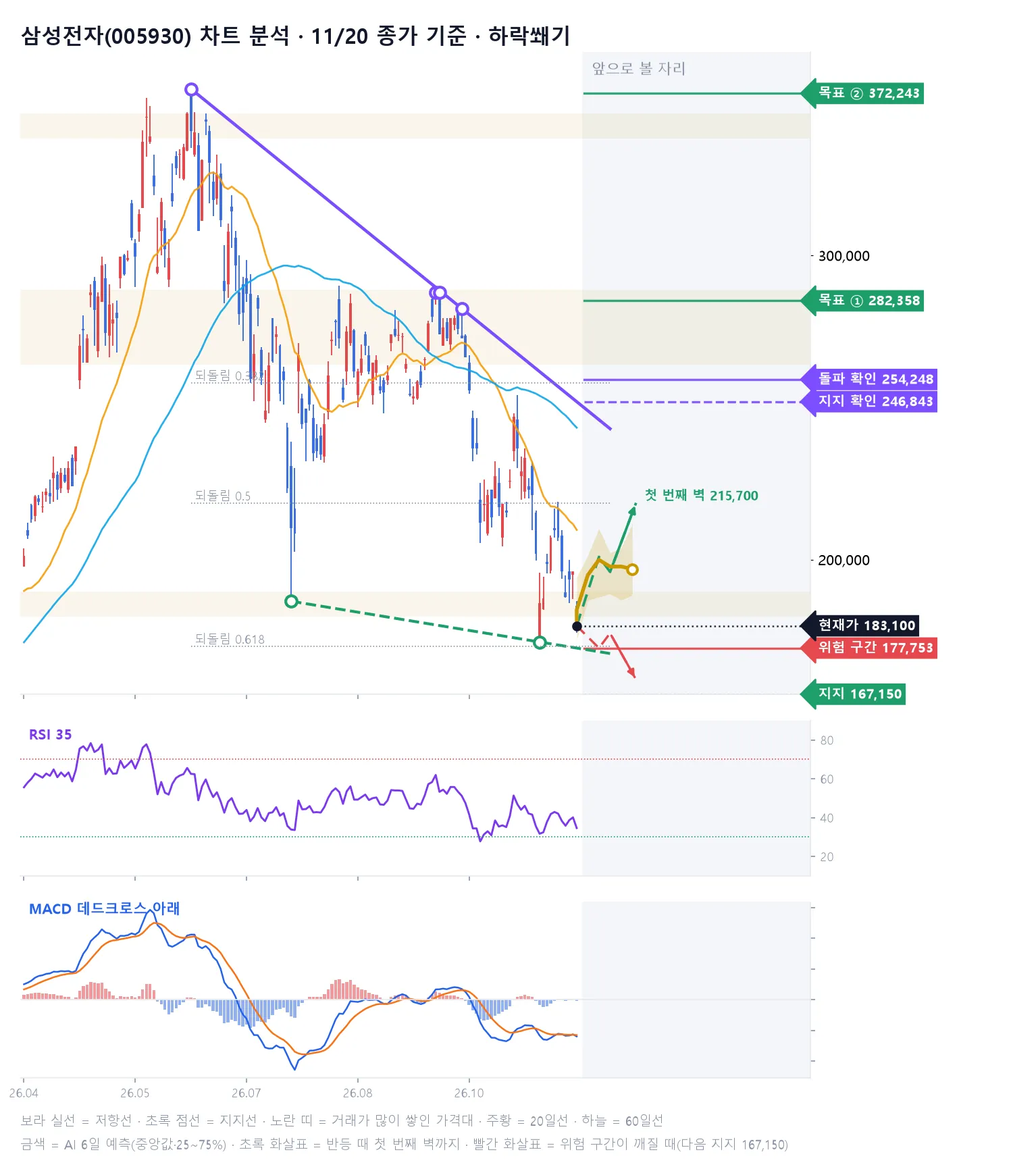
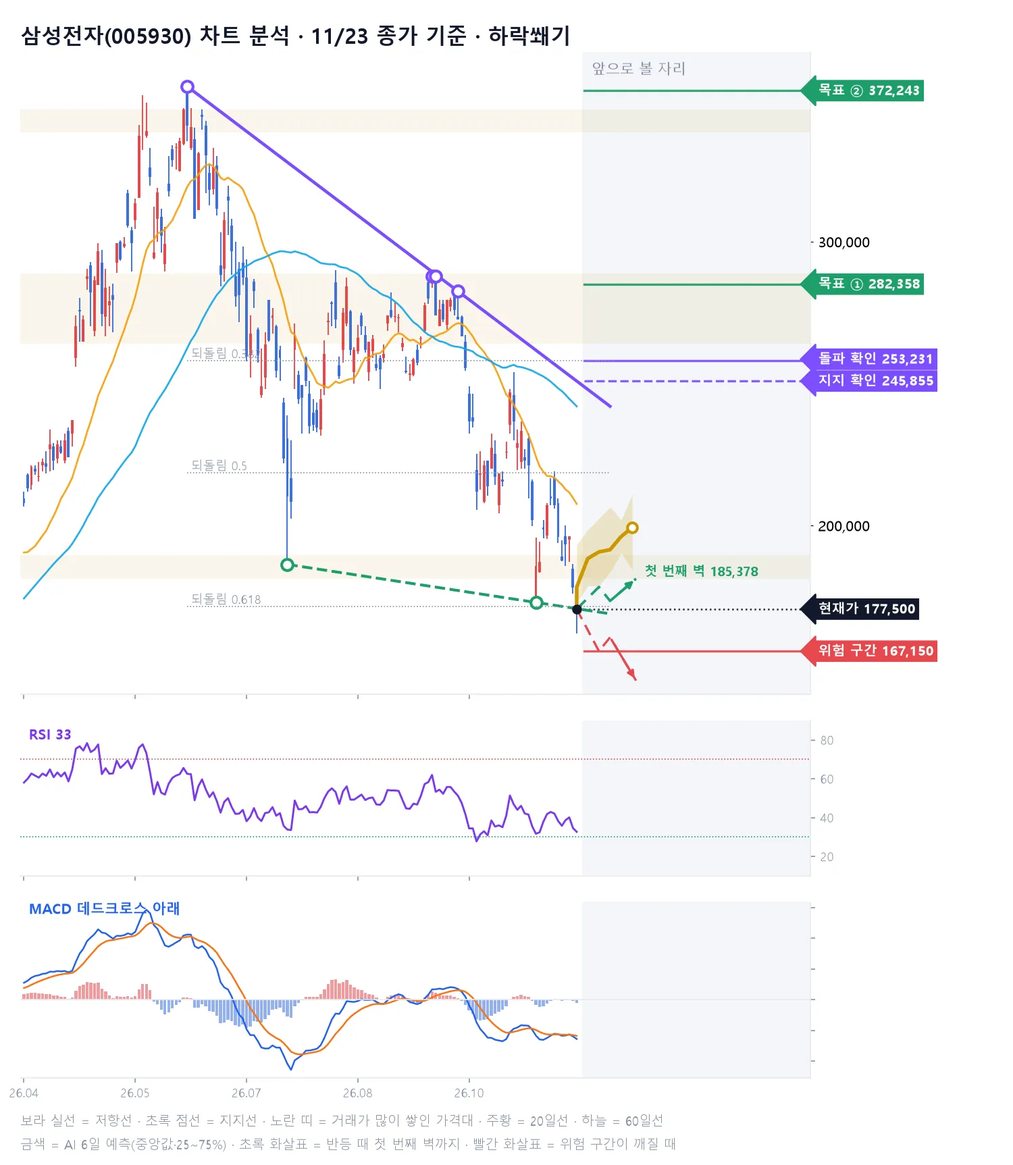
무료 공개 종목 페이지 자동 갱신

diff --git a/s/index.html b/s/index.html
@@ -93,8 +93,8 @@
     <h1>오늘의 무료 공개 종목</h1>
     <p style="margin:0;color:#B7BFD0">유튜브 쇼츠에 나온 종목의 AI 판정과 6일 예측 흐름을 누구나 볼 수 있어요</p>
   </section>
-  <div class="pk-list"><a class="card pk-item" href="BTC/"><span><b>비트코인(BTC)</b><small>코인 · 업비트 · 11/23 예측</small></span><b class="v-up">상승</b></a><a class="card pk-item" href="1INCH/"><span><b>1인치네트워크(1INCH)</b><small>코인 · 업비트 · 11/23 예측</small></span><b class="v-up">상승</b></a><a class="card pk-item" href="SAND/"><span><b>샌드박스(SAND)</b><small>코인 · 업비트 · 11/23 예측</small></span><b class="v-up">상승</b></a><a class="card pk-item" href="XLM/"><span><b>스텔라루멘(XLM)</b><small>코인 · 업비트 · 11/23 예측</small></span><b class="v-up">상승</b></a><a class="card pk-item" href="ARK/"><span><b>아크(ARK)</b><small>코인 · 업비트 · 11/23 예측</small></span><b class="v-up">상승</b></a><a class="card pk-item" href="SUI/"><span><b>수이(SUI)</b><small>코인 · 업비트 · 11/23 예측</small></span><b class="v-up">상승</b></a><a class="card pk-item" href="PALANTIR/"><span><b>팔란티어(PALANTIR)</b><small>미국 주식 · 11/21 예측</small></span><b class="v-up">상승</b></a><a class="card pk-item" href="NVIDIA/"><span><b>엔비디아(NVIDIA)</b><small>미국 주식 · 11/21 예측</small></span><b class="v-up">상승</b></a><a class="card pk-item" href="DOW/"><span><b>다우존스(DOW)</b><small>미국 주식 · 11/21 예측</small></span><b class="v-up">상승</b></a><a class="card pk-item" href="RUSSELL2000/"><span><b>러셀2000(RUSSELL2000)</b><small>미국 주식 · 11/21 예측</small></span><b class="v-up">상승</b></a><a class="card pk-item" href="MERCADOLIBRE/"><span><b>메르카도리브레(MERCADOLIBRE)</b><small>미국 주식 · 11/21 예측</small></span><b class="v-up">상승</b></a><a class="card pk-item" href="KODEX2%EC%B0%A8%EC%A0%84%EC%A7%80%EC%82%B0%EC%97%85/"><span><b>KODEX2차전지산업</b><small>코스피200 · 11/24 예측</small></span><b class="v-up">상승</b></a><a class="card pk-item" href="TIGER2%EC%B0%A8%EC%A0%84%EC%A7%80%ED%85%8C%EB%A7%88/"><span><b>TIGER2차전지테마</b><small>코스피200 · 11/24 예측</small></span><b class="v-up">상승</b></a><a class="card pk-item" href="KODEX%EC%9E%90%EB%8F%99%EC%B0%A8/"><span><b>KODEX자동차</b><small>코스피200 · 11/24 예측</small></span><b class="v-up">상승</b></a><a class="card pk-item" href="%EA%B3%A0%EB%A0%A4%EC%95%84%EC%97%B0/"><span><b>고려아연</b><small>코스피200 · 11/24 예측</small></span><b class="v-up">상승</b></a><a class="card pk-item" href="%ED%95%9C%ED%99%94/"><span><b>한화</b><small>코스피200 · 11/24 예측</small></span><b class="v-up">상승</b></a><a class="card pk-item" href="KOSDAQ/"><span><b>코스닥(KOSDAQ)</b><small>코스피 지수 · 11/24 예측</small></span><b class="v-up">상승</b></a><a class="card pk-item" href="KOSPI/"><span><b>코스피(KOSPI)</b><small>코스피 지수 · 11/24 예측</small></span><b class="v-up">상승</b></a></div>
-  <h2 style="font-size:17px;margin:12px 0 0">지난 공개 종목</h2><div class="pk-list"><a class="card pk-item" href="AAVE/"><span><b>에이브(AAVE)</b><small>코인 · 업비트 · 11/22 예측</small></span><b class="v-up">상승</b></a><a class="card pk-item" href="MTL/"><span><b>메탈(MTL)</b><small>코인 · 업비트 · 11/22 예측</small></span><b class="v-up">상승</b></a><a class="card pk-item" href="%EC%82%BC%EC%84%B1%EC%A0%84%EC%9E%90/"><span><b>삼성전자(005930)</b><small>코스피200 · 11/21 예측</small></span><b class="v-mx">혼돈</b></a><a class="card pk-item" href="ETH/"><span><b>이더리움(ETH)</b><small>코인 · 업비트 · 11/21 예측</small></span><b class="v-mx">혼돈</b></a><a class="card pk-item" href="TESLA/"><span><b>테슬라(TSLA)</b><small>미국 주식 · 11/21 예측</small></span><b class="v-up">상승</b></a><a class="card pk-item" href="%ED%95%9C%ED%99%94%EC%86%94%EB%A3%A8%EC%85%98/"><span><b>한화솔루션</b><small>코스피200 · 11/21 예측</small></span><b class="v-mx">혼돈</b></a><a class="card pk-item" href="KODEX%EB%AF%B8%EA%B5%AD%EB%82%98%EC%8A%A4%EB%8B%A5100TR/"><span><b>KODEX미국나스닥100TR</b><small>코스피200 · 11/21 예측</small></span><b class="v-up">상승</b></a><a class="card pk-item" href="TIGER%EB%AF%B8%EA%B5%AD%ED%85%8C%ED%81%ACTOP10/"><span><b>TIGER미국테크TOP10</b><small>코스피200 · 11/21 예측</small></span><b class="v-up">상승</b></a><a class="card pk-item" href="ZRO/"><span><b>레이어제로(ZRO)</b><small>코인 · 업비트 · 11/21 예측</small></span><b class="v-mx">혼돈</b></a><a class="card pk-item" href="ETC/"><span><b>이더리움클래식(ETC)</b><small>코인 · 업비트 · 11/21 예측</small></span><b class="v-up">상승</b></a><a class="card pk-item" href="MANA/"><span><b>디센트럴랜드(MANA)</b><small>코인 · 업비트 · 11/21 예측</small></span><b class="v-up">상승</b></a><a class="card pk-item" href="SK%ED%95%98%EC%9D%B4%EB%8B%89%EC%8A%A4/"><span><b>SK하이닉스(000660)</b><small>코스피200 · 11/20 예측</small></span><b class="v-mx">혼돈</b></a><a class="card pk-item" href="APT/"><span><b>앱토스(APT)</b><small>코인 · 업비트 · 11/20 예측</small></span><b class="v-up">상승</b></a><a class="card pk-item" href="STRAX/"><span><b>저트라(STRAX)</b><small>코인 · 업비트 · 11/20 예측</small></span><b class="v-up">상승</b></a><a class="card pk-item" href="ENS/"><span><b>이더리움네임서비스(ENS)</b><small>코인 · 업비트 · 11/20 예측</small></span><b class="v-up">상승</b></a><a class="card pk-item" href="KODEXWTI%EC%9B%90%EC%9C%A0%EC%84%A0%EB%AC%BCH/"><span><b>KODEXWTI원유선물H</b><small>코스피200 · 11/20 예측</small></span><b class="v-up">상승</b></a><a class="card pk-item" href="%ED%95%9C%EC%A0%84%EA%B8%B0%EC%88%A0/"><span><b>한전기술</b><small>코스피200 · 11/20 예측</small></span><b class="v-up">상승</b></a><a class="card pk-item" href="KODEX%EA%B3%A8%EB%93%9C%EC%84%A0%EB%AC%BCH/"><span><b>KODEX골드선물H</b><small>코스피200 · 11/20 예측</small></span><b class="v-mx">혼돈</b></a><a class="card pk-item" href="STRATEGY/"><span><b>스트래티지(STRATEGY)</b><small>미국 주식 · 11/19 예측</small></span><b class="v-up">상승</b></a><a class="card pk-item" href="NETFLIX/"><span><b>넷플릭스(NETFLIX)</b><small>미국 주식 · 11/19 예측</small></span><b class="v-up">상승</b></a><a class="card pk-item" href="SHIB/"><span><b>시바이누(SHIB)</b><small>코인 · 업비트 · 11/19 예측</small></span><b class="v-up">상승</b></a><a class="card pk-item" href="TOKAMAK/"><span><b>토카막네트워크(TOKAMAK)</b><small>코인 · 업비트 · 11/19 예측</small></span><b class="v-up">상승</b></a><a class="card pk-item" href="TIGER%EB%AF%B8%EA%B5%ADSP500/"><span><b>TIGER미국SP500</b><small>코스피200 · 11/19 예측</small></span><b class="v-mx">혼돈</b></a><a class="card pk-item" href="%EA%B8%B0%EC%95%84/"><span><b>기아</b><small>코스피200 · 11/19 예측</small></span><b class="v-mx">혼돈</b></a><a class="card pk-item" href="%ED%98%84%EB%8C%80%EB%A1%9C%ED%85%9C/"><span><b>현대로템</b><small>코스피200 · 11/19 예측</small></span><b class="v-up">상승</b></a><a class="card pk-item" href="TIGER%EB%B0%98%EB%8F%84%EC%B2%B4TOP10/"><span><b>TIGER반도체TOP10</b><small>코스피200 · 11/19 예측</small></span><b class="v-up">상승</b></a><a class="card pk-item" href="MBL/"><span><b>무비블록(MBL)</b><small>코인 · 업비트 · 11/18 예측</small></span><b class="v-up">상승</b></a><a class="card pk-item" href="SC/"><span><b>시아코인(SC)</b><small>코인 · 업비트 · 11/18 예측</small></span><b class="v-up">상승</b></a><a class="card pk-item" href="ELF/"><span><b>엘프(ELF)</b><small>코인 · 업비트 · 11/18 예측</small></span><b class="v-up">상승</b></a><a class="card pk-item" href="BITMINE/"><span><b>비트마인(BITMINE)</b><small>미국 주식 · 11/18 예측</small></span><b class="v-up">상승</b></a><a class="card pk-item" href="NASDAQ100/"><span><b>나스닥100(NASDAQ100)</b><small>미국 주식 · 11/18 예측</small></span><b class="v-up">상승</b></a><a class="card pk-item" href="NASDAQ/"><span><b>나스닥(NASDAQ)</b><small>미국 주식 · 11/18 예측</small></span><b class="v-up">상승</b></a><a class="card pk-item" href="DB%ED%95%98%EC%9D%B4%ED%85%8D/"><span><b>DB하이텍</b><small>코스피200 · 11/18 예측</small></span><b class="v-up">상승</b></a><a class="card pk-item" href="%ED%95%9C%ED%99%94%EC%83%9D%EB%AA%85/"><span><b>한화생명</b><small>코스피200 · 11/18 예측</small></span><b class="v-mx">혼돈</b></a><a class="card pk-item" href="SOL/"><span><b>솔라나(SOL)</b><small>코인 · 업비트 · 11/17 예측</small></span><b class="v-up">상승</b></a><a class="card pk-item" href="HBAR/"><span><b>헤데라(HBAR)</b><small>코인 · 업비트 · 11/17 예측</small></span><b class="v-up">상승</b></a><a class="card pk-item" href="NEAR/"><span><b>니어프로토콜(NEAR)</b><small>코인 · 업비트 · 11/17 예측</small></span><b class="v-up">상승</b></a><a class="card pk-item" href="CISCO/"><span><b>시스코(CISCO)</b><small>미국 주식 · 11/17 예측</small></span><b class="v-up">상승</b></a><a class="card pk-item" href="DB%EC%86%90%ED%95%B4%EB%B3%B4%ED%97%98/"><span><b>DB손해보험</b><small>코스피200 · 11/17 예측</small></span><b class="v-up">상승</b></a><a class="card pk-item" href="NIKKEI225/"><span><b>NIKKEI225</b><small>코스피200 · 11/17 예측</small></span><b class="v-up">상승</b></a><a class="card pk-item" href="LG/"><span><b>LG</b><small>코스피200 · 11/17 예측</small></span><b class="v-up">상승</b></a><a class="card pk-item" href="NEO/"><span><b>네오(NEO)</b><small>코인 · 업비트 · 11/16 예측</small></span><b class="v-up">상승</b></a><a class="card pk-item" href="MED/"><span><b>메디블록(MED)</b><small>코인 · 업비트 · 11/16 예측</small></span><b class="v-up">상승</b></a><a class="card pk-item" href="VET/"><span><b>비체인(VET)</b><small>코인 · 업비트 · 11/16 예측</small></span><b class="v-up">상승</b></a><a class="card pk-item" href="TFUEL/"><span><b>쎄타퓨엘(TFUEL)</b><small>코인 · 업비트 · 11/16 예측</small></span><b class="v-up">상승</b></a><a class="card pk-item" href="SP500/"><span><b>S&amp;P500(SPX)</b><small>미국 주식 · 11/14 예측</small></span><b class="v-dn">하락</b></a><a class="card pk-item" href="BITCOIN_ETF_FIDELITY/"><span><b>비트코인 현물 피델리티(BITCOIN_ETF_FIDELITY)</b><small>미국 주식 · 11/14 예측</small></span><b class="v-up">상승</b></a><a class="card pk-item" href="BITCOIN_ETF_ISHARES/"><span><b>비트코인 현물 아이셰어즈(BITCOIN_ETF_ISHARES)</b><small>미국 주식 · 11/14 예측</small></span><b class="v-up">상승</b></a></div>
+  <div class="pk-list"><a class="card pk-item" href="BTC/"><span><b>비트코인(BTC)</b><small>코인 · 업비트 · 11/23 예측</small></span><b class="v-up">상승</b></a><a class="card pk-item" href="1INCH/"><span><b>1인치네트워크(1INCH)</b><small>코인 · 업비트 · 11/23 예측</small></span><b class="v-up">상승</b></a><a class="card pk-item" href="SAND/"><span><b>샌드박스(SAND)</b><small>코인 · 업비트 · 11/23 예측</small></span><b class="v-up">상승</b></a><a class="card pk-item" href="XLM/"><span><b>스텔라루멘(XLM)</b><small>코인 · 업비트 · 11/23 예측</small></span><b class="v-up">상승</b></a><a class="card pk-item" href="ARK/"><span><b>아크(ARK)</b><small>코인 · 업비트 · 11/23 예측</small></span><b class="v-up">상승</b></a><a class="card pk-item" href="SUI/"><span><b>수이(SUI)</b><small>코인 · 업비트 · 11/23 예측</small></span><b class="v-up">상승</b></a><a class="card pk-item" href="PALANTIR/"><span><b>팔란티어(PALANTIR)</b><small>미국 주식 · 11/21 예측</small></span><b class="v-up">상승</b></a><a class="card pk-item" href="NVIDIA/"><span><b>엔비디아(NVIDIA)</b><small>미국 주식 · 11/21 예측</small></span><b class="v-up">상승</b></a><a class="card pk-item" href="DOW/"><span><b>다우존스(DOW)</b><small>미국 주식 · 11/21 예측</small></span><b class="v-up">상승</b></a><a class="card pk-item" href="RUSSELL2000/"><span><b>러셀2000(RUSSELL2000)</b><small>미국 주식 · 11/21 예측</small></span><b class="v-up">상승</b></a><a class="card pk-item" href="MERCADOLIBRE/"><span><b>메르카도리브레(MERCADOLIBRE)</b><small>미국 주식 · 11/21 예측</small></span><b class="v-up">상승</b></a><a class="card pk-item" href="%EC%82%BC%EC%84%B1%EC%A0%84%EC%9E%90/"><span><b>삼성전자(005930)</b><small>코스피200 · 11/24 예측</small></span><b class="v-up">상승</b></a><a class="card pk-item" href="KODEX2%EC%B0%A8%EC%A0%84%EC%A7%80%EC%82%B0%EC%97%85/"><span><b>KODEX2차전지산업</b><small>코스피200 · 11/24 예측</small></span><b class="v-up">상승</b></a><a class="card pk-item" href="TIGER2%EC%B0%A8%EC%A0%84%EC%A7%80%ED%85%8C%EB%A7%88/"><span><b>TIGER2차전지테마</b><small>코스피200 · 11/24 예측</small></span><b class="v-up">상승</b></a><a class="card pk-item" href="KODEX%EC%9E%90%EB%8F%99%EC%B0%A8/"><span><b>KODEX자동차</b><small>코스피200 · 11/24 예측</small></span><b class="v-up">상승</b></a><a class="card pk-item" href="%EA%B3%A0%EB%A0%A4%EC%95%84%EC%97%B0/"><span><b>고려아연</b><small>코스피200 · 11/24 예측</small></span><b class="v-up">상승</b></a><a class="card pk-item" href="%ED%95%9C%ED%99%94/"><span><b>한화</b><small>코스피200 · 11/24 예측</small></span><b class="v-up">상승</b></a><a class="card pk-item" href="KOSDAQ/"><span><b>코스닥(KOSDAQ)</b><small>코스피 지수 · 11/24 예측</small></span><b class="v-up">상승</b></a><a class="card pk-item" href="KOSPI/"><span><b>코스피(KOSPI)</b><small>코스피 지수 · 11/24 예측</small></span><b class="v-up">상승</b></a></div>
+  <h2 style="font-size:17px;margin:12px 0 0">지난 공개 종목</h2><div class="pk-list"><a class="card pk-item" href="AAVE/"><span><b>에이브(AAVE)</b><small>코인 · 업비트 · 11/22 예측</small></span><b class="v-up">상승</b></a><a class="card pk-item" href="MTL/"><span><b>메탈(MTL)</b><small>코인 · 업비트 · 11/22 예측</small></span><b class="v-up">상승</b></a><a class="card pk-item" href="ETH/"><span><b>이더리움(ETH)</b><small>코인 · 업비트 · 11/21 예측</small></span><b class="v-mx">혼돈</b></a><a class="card pk-item" href="TESLA/"><span><b>테슬라(TSLA)</b><small>미국 주식 · 11/21 예측</small></span><b class="v-up">상승</b></a><a class="card pk-item" href="%ED%95%9C%ED%99%94%EC%86%94%EB%A3%A8%EC%85%98/"><span><b>한화솔루션</b><small>코스피200 · 11/21 예측</small></span><b class="v-mx">혼돈</b></a><a class="card pk-item" href="KODEX%EB%AF%B8%EA%B5%AD%EB%82%98%EC%8A%A4%EB%8B%A5100TR/"><span><b>KODEX미국나스닥100TR</b><small>코스피200 · 11/21 예측</small></span><b class="v-up">상승</b></a><a class="card pk-item" href="TIGER%EB%AF%B8%EA%B5%AD%ED%85%8C%ED%81%ACTOP10/"><span><b>TIGER미국테크TOP10</b><small>코스피200 · 11/21 예측</small></span><b class="v-up">상승</b></a><a class="card pk-item" href="ZRO/"><span><b>레이어제로(ZRO)</b><small>코인 · 업비트 · 11/21 예측</small></span><b class="v-mx">혼돈</b></a><a class="card pk-item" href="ETC/"><span><b>이더리움클래식(ETC)</b><small>코인 · 업비트 · 11/21 예측</small></span><b class="v-up">상승</b></a><a class="card pk-item" href="MANA/"><span><b>디센트럴랜드(MANA)</b><small>코인 · 업비트 · 11/21 예측</small></span><b class="v-up">상승</b></a><a class="card pk-item" href="SK%ED%95%98%EC%9D%B4%EB%8B%89%EC%8A%A4/"><span><b>SK하이닉스(000660)</b><small>코스피200 · 11/20 예측</small></span><b class="v-mx">혼돈</b></a><a class="card pk-item" href="APT/"><span><b>앱토스(APT)</b><small>코인 · 업비트 · 11/20 예측</small></span><b class="v-up">상승</b></a><a class="card pk-item" href="STRAX/"><span><b>저트라(STRAX)</b><small>코인 · 업비트 · 11/20 예측</small></span><b class="v-up">상승</b></a><a class="card pk-item" href="ENS/"><span><b>이더리움네임서비스(ENS)</b><small>코인 · 업비트 · 11/20 예측</small></span><b class="v-up">상승</b></a><a class="card pk-item" href="KODEXWTI%EC%9B%90%EC%9C%A0%EC%84%A0%EB%AC%BCH/"><span><b>KODEXWTI원유선물H</b><small>코스피200 · 11/20 예측</small></span><b class="v-up">상승</b></a><a class="card pk-item" href="%ED%95%9C%EC%A0%84%EA%B8%B0%EC%88%A0/"><span><b>한전기술</b><small>코스피200 · 11/20 예측</small></span><b class="v-up">상승</b></a><a class="card pk-item" href="KODEX%EA%B3%A8%EB%93%9C%EC%84%A0%EB%AC%BCH/"><span><b>KODEX골드선물H</b><small>코스피200 · 11/20 예측</small></span><b class="v-mx">혼돈</b></a><a class="card pk-item" href="STRATEGY/"><span><b>스트래티지(STRATEGY)</b><small>미국 주식 · 11/19 예측</small></span><b class="v-up">상승</b></a><a class="card pk-item" href="NETFLIX/"><span><b>넷플릭스(NETFLIX)</b><small>미국 주식 · 11/19 예측</small></span><b class="v-up">상승</b></a><a class="card pk-item" href="SHIB/"><span><b>시바이누(SHIB)</b><small>코인 · 업비트 · 11/19 예측</small></span><b class="v-up">상승</b></a><a class="card pk-item" href="TOKAMAK/"><span><b>토카막네트워크(TOKAMAK)</b><small>코인 · 업비트 · 11/19 예측</small></span><b class="v-up">상승</b></a><a class="card pk-item" href="TIGER%EB%AF%B8%EA%B5%ADSP500/"><span><b>TIGER미국SP500</b><small>코스피200 · 11/19 예측</small></span><b class="v-mx">혼돈</b></a><a class="card pk-item" href="%EA%B8%B0%EC%95%84/"><span><b>기아</b><small>코스피200 · 11/19 예측</small></span><b class="v-mx">혼돈</b></a><a class="card pk-item" href="%ED%98%84%EB%8C%80%EB%A1%9C%ED%85%9C/"><span><b>현대로템</b><small>코스피200 · 11/19 예측</small></span><b class="v-up">상승</b></a><a class="card pk-item" href="TIGER%EB%B0%98%EB%8F%84%EC%B2%B4TOP10/"><span><b>TIGER반도체TOP10</b><small>코스피200 · 11/19 예측</small></span><b class="v-up">상승</b></a><a class="card pk-item" href="MBL/"><span><b>무비블록(MBL)</b><small>코인 · 업비트 · 11/18 예측</small></span><b class="v-up">상승</b></a><a class="card pk-item" href="SC/"><span><b>시아코인(SC)</b><small>코인 · 업비트 · 11/18 예측</small></span><b class="v-up">상승</b></a><a class="card pk-item" href="ELF/"><span><b>엘프(ELF)</b><small>코인 · 업비트 · 11/18 예측</small></span><b class="v-up">상승</b></a><a class="card pk-item" href="BITMINE/"><span><b>비트마인(BITMINE)</b><small>미국 주식 · 11/18 예측</small></span><b class="v-up">상승</b></a><a class="card pk-item" href="NASDAQ100/"><span><b>나스닥100(NASDAQ100)</b><small>미국 주식 · 11/18 예측</small></span><b class="v-up">상승</b></a><a class="card pk-item" href="NASDAQ/"><span><b>나스닥(NASDAQ)</b><small>미국 주식 · 11/18 예측</small></span><b class="v-up">상승</b></a><a class="card pk-item" href="DB%ED%95%98%EC%9D%B4%ED%85%8D/"><span><b>DB하이텍</b><small>코스피200 · 11/18 예측</small></span><b class="v-up">상승</b></a><a class="card pk-item" href="%ED%95%9C%ED%99%94%EC%83%9D%EB%AA%85/"><span><b>한화생명</b><small>코스피200 · 11/18 예측</small></span><b class="v-mx">혼돈</b></a><a class="card pk-item" href="SOL/"><span><b>솔라나(SOL)</b><small>코인 · 업비트 · 11/17 예측</small></span><b class="v-up">상승</b></a><a class="card pk-item" href="HBAR/"><span><b>헤데라(HBAR)</b><small>코인 · 업비트 · 11/17 예측</small></span><b class="v-up">상승</b></a><a class="card pk-item" href="NEAR/"><span><b>니어프로토콜(NEAR)</b><small>코인 · 업비트 · 11/17 예측</small></span><b class="v-up">상승</b></a><a class="card pk-item" href="CISCO/"><span><b>시스코(CISCO)</b><small>미국 주식 · 11/17 예측</small></span><b class="v-up">상승</b></a><a class="card pk-item" href="DB%EC%86%90%ED%95%B4%EB%B3%B4%ED%97%98/"><span><b>DB손해보험</b><small>코스피200 · 11/17 예측</small></span><b class="v-up">상승</b></a><a class="card pk-item" href="NIKKEI225/"><span><b>NIKKEI225</b><small>코스피200 · 11/17 예측</small></span><b class="v-up">상승</b></a><a class="card pk-item" href="LG/"><span><b>LG</b><small>코스피200 · 11/17 예측</small></span><b class="v-up">상승</b></a><a class="card pk-item" href="NEO/"><span><b>네오(NEO)</b><small>코인 · 업비트 · 11/16 예측</small></span><b class="v-up">상승</b></a><a class="card pk-item" href="MED/"><span><b>메디블록(MED)</b><small>코인 · 업비트 · 11/16 예측</small></span><b class="v-up">상승</b></a><a class="card pk-item" href="VET/"><span><b>비체인(VET)</b><small>코인 · 업비트 · 11/16 예측</small></span><b class="v-up">상승</b></a><a class="card pk-item" href="TFUEL/"><span><b>쎄타퓨엘(TFUEL)</b><small>코인 · 업비트 · 11/16 예측</small></span><b class="v-up">상승</b></a><a class="card pk-item" href="SP500/"><span><b>S&amp;P500(SPX)</b><small>미국 주식 · 11/14 예측</small></span><b class="v-dn">하락</b></a><a class="card pk-item" href="BITCOIN_ETF_FIDELITY/"><span><b>비트코인 현물 피델리티(BITCOIN_ETF_FIDELITY)</b><small>미국 주식 · 11/14 예측</small></span><b class="v-up">상승</b></a><a class="card pk-item" href="BITCOIN_ETF_ISHARES/"><span><b>비트코인 현물 아이셰어즈(BITCOIN_ETF_ISHARES)</b><small>미국 주식 · 11/14 예측</small></span><b class="v-up">상승</b></a></div>
   <section class="card pk-cta">
     <b style="font-size:17px">전체 종목 순위와 모델별 차트는 회원 화면에서</b>
     <a class="btn big red" href="../login.html?next=index.html#signup" data-member="../index.html" data-member-text="내 포털로 가기">7일 무료로 시작하기</a>

diff --git a/s/삼성전자/index.html b/s/삼성전자/index.html
@@ -3,13 +3,13 @@
 <head>
 <meta charset="utf-8">
 <meta name="viewport" content="width=device-width, initial-scale=1">
-<title>삼성전자(005930) 전망 11/21 · AI 52개 모델 6일 예측 | AI 신호등</title>
-<meta name="description" content="11/21 기준 삼성전자(005930) 다음 거래일 AI 판정은 &#x27;혼돈&#x27;. 52개 모델 중 상승 31 · 하락 19. 6일 뒤 예측 중앙값 +7.9%. 52개 예측 모델의 6일 가격 흐름을 신호등으로 정리했어요.">
+<title>삼성전자(005930) 전망 11/24 · AI 52개 모델 6일 예측 | AI 신호등</title>
+<meta name="description" content="11/24 기준 삼성전자(005930) 다음 거래일 AI 판정은 &#x27;상승&#x27;. 52개 모델 중 상승 40 · 하락 6. 6일 뒤 예측 중앙값 +12.4%. 52개 예측 모델의 6일 가격 흐름을 신호등으로 정리했어요.">
 <link rel="canonical" href="https://www.ai-sinhodeung.co.kr/s/%EC%82%BC%EC%84%B1%EC%A0%84%EC%9E%90/">
 <meta property="og:type" content="article">
 <meta property="og:site_name" content="AI 신호등">
-<meta property="og:title" content="삼성전자(005930) 전망 11/21 · AI 52개 모델 6일 예측 | AI 신호등">
-<meta property="og:description" content="11/21 기준 삼성전자(005930) 다음 거래일 AI 판정은 &#x27;혼돈&#x27;. 52개 모델 중 상승 31 · 하락 19. 6일 뒤 예측 중앙값 +7.9%. 52개 예측 모델의 6일 가격 흐름을 신호등으로 정리했어요.">
+<meta property="og:title" content="삼성전자(005930) 전망 11/24 · AI 52개 모델 6일 예측 | AI 신호등">
+<meta property="og:description" content="11/24 기준 삼성전자(005930) 다음 거래일 AI 판정은 &#x27;상승&#x27;. 52개 모델 중 상승 40 · 하락 6. 6일 뒤 예측 중앙값 +12.4%. 52개 예측 모델의 6일 가격 흐름을 신호등으로 정리했어요.">
 <meta property="og:url" content="https://www.ai-sinhodeung.co.kr/s/%EC%82%BC%EC%84%B1%EC%A0%84%EC%9E%90/">
 <meta property="og:image" content="https://www.ai-sinhodeung.co.kr/assets/og-image.png">
 <meta property="og:locale" content="ko_KR">
@@ -76,7 +76,7 @@
 .ca-g.npn { border-color: #C99700 !important; background: #FFF8E1; } .ca-g.npn b { color: #A87E00 !important; }
 .ca-flash { animation: caf 1.6s ease-out; } @keyframes caf { 0%, 40% { box-shadow: 0 0 0 3px #C99700; } 100% { box-shadow: 0 0 0 0 transparent; } }
 </style>
-<script type="application/ld+json">{"@context": "https://schema.org", "@type": "Article", "headline": "삼성전자(005930) 전망 11/21 · AI 52개 모델 6일 예측 | AI 신호등", "description": "11/21 기준 삼성전자(005930) 다음 거래일 AI 판정은 '혼돈'. 52개 모델 중 상승 31 · 하락 19. 6일 뒤 예측 중앙값 +7.9%. 52개 예측 모델의 6일 가격 흐름을 신호등으로 정리했어요.", "dateModified": "2026-11-21", "inLanguage": "ko", "url": "https://www.ai-sinhodeung.co.kr/s/%EC%82%BC%EC%84%B1%EC%A0%84%EC%9E%90/", "publisher": {"@type": "Organization", "name": "AI 신호등", "url": "https://www.ai-sinhodeung.co.kr"}}</script>
+<script type="application/ld+json">{"@context": "https://schema.org", "@type": "Article", "headline": "삼성전자(005930) 전망 11/24 · AI 52개 모델 6일 예측 | AI 신호등", "description": "11/24 기준 삼성전자(005930) 다음 거래일 AI 판정은 '상승'. 52개 모델 중 상승 40 · 하락 6. 6일 뒤 예측 중앙값 +12.4%. 52개 예측 모델의 6일 가격 흐름을 신호등으로 정리했어요.", "dateModified": "2026-11-24", "inLanguage": "ko", "url": "https://www.ai-sinhodeung.co.kr/s/%EC%82%BC%EC%84%B1%EC%A0%84%EC%9E%90/", "publisher": {"@type": "Organization", "name": "AI 신호등", "url": "https://www.ai-sinhodeung.co.kr"}}</script>
 </head>
 <body class="home landing">
 <header class="topbar">
@@ -89,65 +89,65 @@
 
 <main class="pk">
   <section class="pk-hero on-night">
-    <small>코스피200 · 11/21 예측 · AI 모델 52개</small>
+    <small>코스피200 · 11/24 예측 · AI 모델 52개</small>
     <h1>삼성전자(005930) 전망</h1>
   </section>
 
   <section class="card">
     <div class="pk-verdict">
-      <div class="lamp mx" aria-hidden="true"><i></i><i></i><i></i></div>
+      <div class="lamp up" aria-hidden="true"><i></i><i></i><i></i></div>
       <div><small style="color:var(--muted);font-size:12.5px">다음 거래일(D+1) AI 판정</small><br>
-        <b class="v-mx">혼돈</b><br><span>52개 모델 중 상승 31 · 하락 19</span></div>
+        <b class="v-up">상승</b><br><span>52개 모델 중 상승 40 · 하락 6</span></div>
     </div>
-    <p style="margin:10px 0 0;color:var(--sub);font-size:14px">참고: D+3 고점 후 되돌림</p>
+    <p style="margin:10px 0 0;color:var(--sub);font-size:14px">참고: 6일 꾸준한 우상향</p>
   </section>
 
   <section class="card">
     <h3 style="margin-bottom:6px">6일 예측 흐름</h3>
-    <p class="hint" style="margin:0 0 10px;font-size:13px">기준가 183,100원 · 6일 뒤 예측 중앙값 <b class="v-mx">+7.9%</b></p>
+    <p class="hint" style="margin:0 0 10px;font-size:13px">기준가 177,500원 · 6일 뒤 예측 중앙값 <b class="v-up">+12.4%</b></p>
     <svg viewBox="0 0 520 300" role="img" aria-label="최근 8일 종가와 앞으로 6일 예측 범위" class="pk-chart">
   <line x1="277.1" y1="30" x2="277.1" y2="266" stroke="#C5CAD6" stroke-dasharray="4 4"/>
-  <polygon points="277.1,226.4 315.2,142.8 353.4,105.1 391.5,54.7 429.7,99.9 467.8,90.6 506.0,46.3 506.0,174.6 467.8,183.4 429.7,172.4 391.5,177.8 353.4,183.4 315.2,249.7 277.1,226.4" fill="#C99700" fill-opacity=".14"/>
-  <polyline points="10.0,71.6 48.2,58.0 86.3,71.6 124.5,133.8 162.6,177.7 200.8,148.0 238.9,133.1 277.1,226.4" fill="none" stroke="#12182B" stroke-width="2.4" stroke-linejoin="round"/>
-  <polyline points="277.1,226.4 315.2,199.8 353.4,139.8 391.5,112.6 429.7,124.8 467.8,124.5 506.0,129.1" fill="none" stroke="#C99700" stroke-width="3" stroke-linejoin="round"/>
-  <circle cx="277.1" cy="226.4" r="4.5" fill="#12182B"/>
-  <circle cx="506.0" cy="129.1" r="6" fill="#fff" stroke="#C99700" stroke-width="3"/>
-  <text x="506" y="20" text-anchor="end" font-size="18" font-weight="700" fill="#C99700">6일 뒤 +7.9%</text>
-  <text x="10" y="290" font-size="15" fill="#8A93A6">11-11</text>
-  <text x="277.1" y="290" font-size="15" fill="#12182B" text-anchor="middle" font-weight="600">11-20 기준</text>
-  <text x="506" y="290" font-size="15" fill="#8A93A6" text-anchor="end">11-26</text>
+  <polygon points="277.1,249.7 315.2,139.2 353.4,112.7 391.5,92.2 429.7,69.8 467.8,94.6 506.0,46.3 506.0,184.2 467.8,154.4 429.7,187.9 391.5,211.5 353.4,211.0 315.2,240.0 277.1,249.7" fill="#E5383B" fill-opacity=".14"/>
+  <polyline points="10.0,53.3 48.2,66.1 86.3,125.4 124.5,167.3 162.6,138.9 200.8,124.8 238.9,213.7 277.1,249.7" fill="none" stroke="#12182B" stroke-width="2.4" stroke-linejoin="round"/>
+  <polyline points="277.1,249.7 315.2,213.1 353.4,163.9 391.5,152.4 429.7,148.4 467.8,124.8 506.0,108.0" fill="none" stroke="#E5383B" stroke-width="3" stroke-linejoin="round"/>
+  <circle cx="277.1" cy="249.7" r="4.5" fill="#12182B"/>
+  <circle cx="506.0" cy="108.0" r="6" fill="#fff" stroke="#E5383B" stroke-width="3"/>
+  <text x="506" y="20" text-anchor="end" font-size="18" font-weight="700" fill="#E5383B">6일 뒤 +12.4%</text>
+  <text x="10" y="290" font-size="15" fill="#8A93A6">11-12</text>
+  <text x="277.1" y="290" font-size="15" fill="#12182B" text-anchor="middle" font-weight="600">11-23 기준</text>
+  <text x="506" y="290" font-size="15" fill="#8A93A6" text-anchor="end">11-29</text>
 </svg>
-    <div class="pk-legend"><span><i style="background:#12182B"></i>실제 종가</span><span><i style="background:#C99700"></i>모델 예측 중앙값</span><span><i style="background:#C99700;height:8px;opacity:.2"></i>모델 25~75% 범위</span></div>
+    <div class="pk-legend"><span><i style="background:#12182B"></i>실제 종가</span><span><i style="background:#E5383B"></i>모델 예측 중앙값</span><span><i style="background:#E5383B;height:8px;opacity:.2"></i>모델 25~75% 범위</span></div>
   </section>
 
 
   <section class="card pk-cta">
     <b style="font-size:17px">📐 차트로 보면 어떤 자리일까?</b>
-    <p style="font-size:15px;color:var(--ink)">📊 차트 신호 점수 <b style="color:#C99700">50점 · 중</b> · AI 포함 <b style="color:#C99700">50점 · 중</b></p>
+    <p style="font-size:15px;color:var(--ink)">📊 차트 신호 점수 <b style="color:#C99700">50점 · 중</b> · AI 포함 <b style="color:#C99700">60점 · 중</b></p>
     <button class="btn big" type="button" onclick="var c=document.getElementById('ca');c.classList.toggle('open');this.textContent=c.classList.contains('open')?'차트 분석 접기':'📐 차트 분석 보기';if(c.classList.contains('open')){c.scrollIntoView({behavior:'smooth'});try{Portal.track('pick_chart')}catch(e){}}">📐 차트 분석 보기</button>
     <p>추세선·지지선·피보나치·거래가 몰린 가격대를 자동으로 그려서, 앞으로 볼 자리를 정리했어요</p>
   </section>
 
   <section class="card ca" id="ca">
-    <h3 style="margin:0">삼성전자(005930) 차트 분석 <small style="color:var(--muted);font-weight:400;font-size:13px">11/20 종가 183,100원 기준</small></h3>
+    <h3 style="margin:0">삼성전자(005930) 차트 분석 <small style="color:var(--muted);font-weight:400;font-size:13px">11/23 종가 177,500원 기준</small></h3>
     <div class="ca-strip" aria-label="패턴 한눈에 (진한 색 = 해당, 빗금 = 근접)" onclick="var b=event.target.closest('button[data-k]');if(!b)return;var c=[].find.call(document.querySelectorAll('#ca .ca-g[data-k]'),function(d){return d.getAttribute('data-k')===b.getAttribute('data-k')});if(!c)return;c.scrollIntoView({behavior:'smooth',block:'center'});c.classList.remove('ca-flash');void c.offsetWidth;c.classList.add('ca-flash')"><button type="button" class="d" data-k="이동평균" title="이동평균 · 해당">역배열</button><button type="button" class="uh" data-k="하락쐐기" title="하락쐐기 · 근접 (가능성·완성 직전)">하락쐐기</button><span class="sep"></span><button type="button" class="off" data-k="역헤드앤숄더" title="역헤드앤숄더 · 아님">역헤드앤숄더</button><button type="button" class="off" data-k="헤드앤숄더" title="헤드앤숄더 · 아님">헤드앤숄더</button><button type="button" class="off" data-k="컵앤핸들" title="컵앤핸들 · 아님">컵앤핸들</button><button type="button" class="off" data-k="이중 바닥(W)" title="이중 바닥(W) · 아님">이중 바닥</button><button type="button" class="off" data-k="이중 천장(M)" title="이중 천장(M) · 아님">이중 천장</button><button type="button" class="off" data-k="상승쐐기" title="상승쐐기 · 아님">상승쐐기</button><button type="button" class="off" data-k="3 Tight Closes" title="3 Tight Closes · 아님">3 Tight Closes</button><button type="button" class="off" data-k="상승 페넌트" title="상승 페넌트 · 아님">상승 페넌트</button><button type="button" class="off" data-k="상승 깃발" title="상승 깃발 · 아님">상승 깃발</button><button type="button" class="off" data-k="과장 상승 다이버전스" title="과장 상승 다이버전스 · 아님">과장 상승 다이버</button></div><small style="color:var(--muted);font-size:12px;margin-top:-8px">진한 색 = 해당 · 빗금 = 근접 · 누르면 아래 설명으로 가요</small>
-    <a href="chart.webp?v=2026-11-20" target="_blank" rel="noopener"><img src="chart.webp?v=2026-11-20" alt="삼성전자(005930) 차트 분석: 저항선·지지선·앞으로 볼 자리" loading="lazy"></a>
+    <a href="chart.webp?v=2026-11-23" target="_blank" rel="noopener"><img src="chart.webp?v=2026-11-23" alt="삼성전자(005930) 차트 분석: 저항선·지지선·앞으로 볼 자리" loading="lazy"></a>
     <small style="color:var(--muted);font-size:12px;margin-top:-8px">그림을 누르면 크게 볼 수 있어요</small>
     <div class="ca-pat">지금 모양: <b>하락쐐기</b><br>고점은 빠르게, 저점은 천천히 낮아지며 좁아지는 모양 — 위로 빠져나오면 반등 신호로 봐요</div>
     
     <div class="ca-score">
       <h4 style="margin:0 0 8px">📊 차트 신호 점검</h4>
       <h4 style="margin:4px 0 0">🔎 패턴 점검</h4><div class="ca-grid"><div class="ca-g" data-k="이동평균" style="border-color:#3B6FE0"><span>이동평균</span><b style="color:#3B6FE0">역배열</b></div><div class="ca-g off" data-k="역헤드앤숄더" style=""><span>역헤드앤숄더</span><b style="color:#9AA3B5">아님</b></div><div class="ca-g off" data-k="헤드앤숄더" style=""><span>헤드앤숄더</span><b style="color:#9AA3B5">아님</b></div><div class="ca-g off" data-k="컵앤핸들" style=""><span>컵앤핸들</span><b style="color:#9AA3B5">아님</b></div><div class="ca-g off" data-k="이중 바닥(W)" style=""><span>이중 바닥(W)</span><b style="color:#9AA3B5">아님</b></div><div class="ca-g off" data-k="이중 천장(M)" style=""><span>이중 천장(M)</span><b style="color:#9AA3B5">아님</b></div><div class="ca-g" data-k="하락쐐기" style="border-color:#E5484D"><span>하락쐐기</span><b style="color:#E5484D">가능성</b></div><div class="ca-g off" data-k="상승쐐기" style=""><span>상승쐐기</span><b style="color:#9AA3B5">아님</b></div></div><small style="color:var(--muted);font-size:12px">가능성 = 모양이 만들어지는 중 · 정해 둔 규칙에 맞을 때만 표시해요</small><h4 style="margin:10px 0 0">🧩 매매 패턴 <small style="font-weight:400;color:var(--muted);font-size:12px">5년 검증에서 통한 4가지</small></h4><div class="ca-grid"><div class="ca-g off" data-k="3 Tight Closes"><span>3 Tight Closes</span><b>아님</b></div><div class="ca-g off" data-k="상승 페넌트"><span>상승 페넌트</span><b>아님</b></div><div class="ca-g off" data-k="상승 깃발"><span>상승 깃발</span><b>아님</b></div><div class="ca-g off" data-k="과장 상승 다이버전스"><span>과장 상승 다이버전스</span><b>아님</b></div></div>
-      <div class="ca-scs"><div class="ca-sc"><small>차트만 본 점수</small><b style="color:#C99700">50</b><span style="background:#C99700">중</span></div><div class="ca-sc"><small>AI 예측까지 넣은 점수</small><b style="color:#C99700">50</b><span style="background:#C99700">중</span></div></div>
+      <div class="ca-scs"><div class="ca-sc"><small>차트만 본 점수</small><b style="color:#C99700">50</b><span style="background:#C99700">중</span></div><div class="ca-sc"><small>AI 예측까지 넣은 점수</small><b style="color:#C99700">60</b><span style="background:#C99700">중</span></div></div>
       <div class="ca-chips"><span class="ca-chip">🔴 하락쐐기 · 형성 중</span></div>
       <ul class="ca-ck"><li>▫ 반전 첫 신호(저점 상승)</li><li>▫ 전고 돌파(추세 완성)</li><li>▫ 거래량 1.5배</li><li>▫ 상승 다이버전스</li><li>✅ 하락 다이버전스 없음</li><li>✅ 큰 상승(깃대) +50%</li><li>✅ 되돌림 0.618 안</li></ul>
       <ul class="ca-warn"><li>⚠ 시장: 60일선 아래 역배열</li></ul>
       <small style="color:var(--muted);font-size:12px">모양 20/40 · 점검표 18/42 · 시장 12/18 · AI 넣은 점수 = 차트×0.8 + AI 판정(상승 20·혼돈 10·하락 0) · 70↑ 강 · 40~69 중 · 40↓ 약<br>
       조건이 몇 개 맞는지 센 점수예요. 앞으로 오를 확률이 아니에요.</small>
     </div>
-    <div class="ca-combo"><b>🤖 AI 예측과 같이 보면</b><br>다음 거래일 AI 판정 &#x27;혼돈&#x27;. AI 6일 예측 중앙값은 +7.9%(197,491)로, 저항선(246,843)까지는 못 미쳐요 → 당분간은 돌파보다 아래 지지 자리를 지키는지 보는 구간이에요.</div>
-    <div><h4 style="margin:0 0 8px">앞으로 볼 자리</h4><div class="ca-lv"><div class="goal"><b>목표 구간 ③</b><span>570,777원</span><small>피보 1.618</small></div><div class="goal"><b>목표 구간 ②</b><span>372,243원</span><small>수평 고점</small></div><div class="goal"><b>목표 구간 ①</b><span>282,358원</span><small>수평 고점</small></div><div class="watch"><b>돌파 확인 자리</b><span>254,248원</span><small>종가가 저항선보다 3% 넘게 위에서 마감 (돌파 뒤 239,438 아래로 다시 마감하면 돌파 실패)</small></div><div class="watch"><b>지지 확인 자리</b><span>246,843원</span><small>돌파 뒤 저항선이 받쳐 주는지</small></div><div class="risk"><b>위험 구간</b><span>177,753원</span><small>지금 가격 아래 지지선. 이 아래로 마감하면 하락 흐름이 이어질 수 있어요 — 깨지면 다음 지지 167,150까지 열려 있어요</small></div></div></div>
-    <div><h4 style="margin:0 0 6px">해석</h4><ul><li>저항선이 하루에 약 0.4%씩 내려오고 있어서, &#x27;돌파 확인 자리&#x27;도 날마다 조금씩 낮아져요. 저항선까지 거리가 있어서, 그림의 초록 점선은 바로 위 첫 번째 벽까지 반등할 때의 흐름이에요.</li><li>지금 가격은 저항선보다 35% 아래예요. 아직 돌파를 말하기엔 거리가 있어요.</li><li>직전 큰 상승의 0.61만큼만 되돌린 상태 — 0.618 안이라 상승 흐름 속 조정으로 봐요.</li><li>아래에서 받쳐 줄 자리: 177,753 / 167,150</li><li>코스피 지수 상태: 60일선 아래 역배열 → 시장 전체가 약해서 돌파가 나와도 한 번 더 확인이 필요해요</li></ul></div>
+    <div class="ca-combo"><b>🤖 AI 예측과 같이 보면</b><br>다음 거래일 AI 판정 &#x27;상승&#x27;. AI 6일 예측 중앙값은 +12.4%(199,503)로, 저항선(245,855)까지는 못 미쳐요 → 당분간은 돌파보다 아래 지지 자리를 지키는지 보는 구간이에요.</div>
+    <div><h4 style="margin:0 0 8px">앞으로 볼 자리</h4><div class="ca-lv"><div class="goal"><b>목표 구간 ③</b><span>570,777원</span><small>피보 1.618</small></div><div class="goal"><b>목표 구간 ②</b><span>372,243원</span><small>수평 고점</small></div><div class="goal"><b>목표 구간 ①</b><span>282,358원</span><small>수평 고점</small></div><div class="watch"><b>돌파 확인 자리</b><span>253,231원</span><small>종가가 저항선보다 3% 넘게 위에서 마감 (돌파 뒤 238,480 아래로 다시 마감하면 돌파 실패)</small></div><div class="watch"><b>지지 확인 자리</b><span>245,855원</span><small>돌파 뒤 저항선이 받쳐 주는지</small></div><div class="risk"><b>위험 구간</b><span>167,150원</span><small>지금 가격 아래 지지선. 이 아래로 마감하면 하락 흐름이 이어질 수 있어요</small></div></div></div>
+    <div><h4 style="margin:0 0 6px">해석</h4><ul><li>저항선이 하루에 약 0.4%씩 내려오고 있어서, &#x27;돌파 확인 자리&#x27;도 날마다 조금씩 낮아져요. 저항선까지 거리가 있어서, 그림의 초록 점선은 바로 위 첫 번째 벽까지 반등할 때의 흐름이에요.</li><li>지금 가격은 저항선보다 39% 아래예요. 아직 돌파를 말하기엔 거리가 있어요.</li><li>직전 큰 상승의 0.64만큼만 되돌린 상태 — 0.618 안이라 상승 흐름 속 조정으로 봐요.</li><li>아래에서 받쳐 줄 자리: 167,150</li><li>코스피 지수 상태: 60일선 아래 역배열 → 시장 전체가 약해서 돌파가 나와도 한 번 더 확인이 필요해요</li></ul></div>
     <p class="pk-note" style="text-align:left">차트 모양을 규칙대로 자동 분석한 참고 자료예요. 특정 가격에 사고팔라는 권유가 아니며, 가격이 어느 자리에 있는지 보는 용도로만 써 주세요.</p>
   </section>
 
